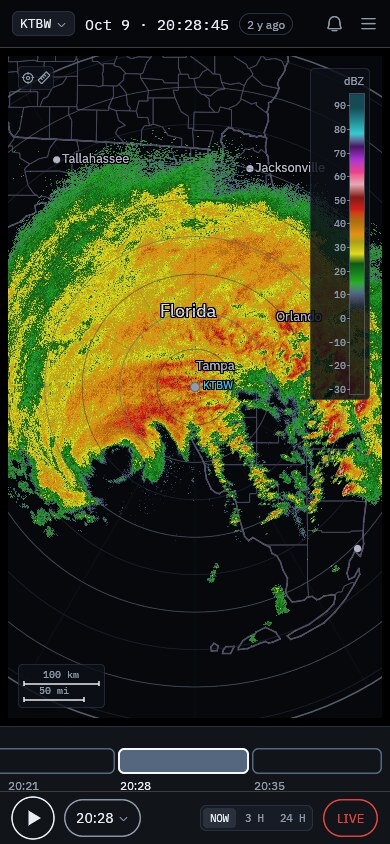
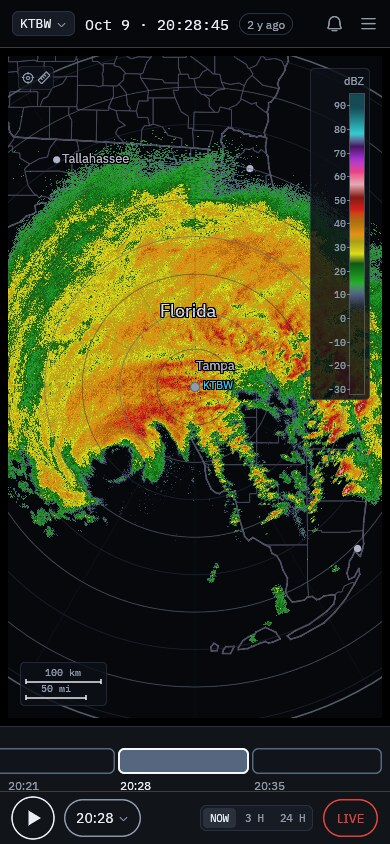
Show the sweep replay, 3D volume rendering and storm activity in the README

Changed region(s): [[0.0308, 0.7701, 0.2769, 0.8318], [0.6462, 0.1848, 0.8, 0.2156], [0.7077, 0.3697, 0.8308, 0.4005]]

diff --git a/README.md b/README.md
@@ -9,7 +9,7 @@ no account, no server: everything runs on your own device.
 
 ### [▶ Open NEXRAD Workbench](https://danielway.github.io/nexrad-workbench/)
 
-![Hurricane Milton looping over Tampa Bay on 9 October 2024](docs/media/milton-loop.gif)
+![Hurricane Milton looping over Tampa Bay on 9 October 2024](docs/media/milton-loop.webp)
 
 <sub>Hurricane Milton approaching Tampa Bay, 9 October 2024, from the KTBW radar. One volume every seven minutes over 90 minutes.</sub>
 
@@ -32,25 +32,37 @@ no account, no server: everything runs on your own device.
   counties and cities. Probe any point for its value, or measure a distance.
 - **Share exactly what you see.** The page URL carries the site, time, product,
   tilt and view, so a copied link opens the same picture for someone else.
-- **Take it with you.** On a phone it becomes a compact instrument: a row of
-  volumes you can touch, a three-button transport, and the panels in a sheet.
-  You can add it to your home screen like an app.
+- **Use it on your phone.** It works on phones too, and you can add it to
+  your home screen.
+
+## A closer look
+
+![Rays playback of one Milton volume, the sweep line painting each tilt over the last](docs/media/sweep.webp)
+
+<sub>**Ray by ray.** In Rays mode the playhead follows the antenna. The sweep line paints each new tilt over the previous one, which fades, and the tilt ladder on the right tracks which elevation the radar is on.</sub>
+
+![Milton in 3D with every tilt drawn as a volume](docs/media/volume-3d.jpg)
+
+<sub>**Every tilt at once.** On the 3D globe, volume rendering draws all 23 tilts of a scan together, here with a 25 dBZ cutoff so the tall cells in Milton's outer bands stand out.</sub>
+
+![Four months of storm activity at KTLX in 2024](docs/media/storm-activity.png)
+
+<sub>**Where the weather was.** The overview strip zoomed out to four months at KTLX in 2024: a quiet March, then the busy weeks of late April through June.</sub>
 
 <table>
   <tr>
-    <td width="68%"><img src="docs/media/site-picker.jpg" alt="Choosing a radar site from the site picker"></td>
-    <td><img src="docs/media/phone.jpg" alt="NEXRAD Workbench on a phone"></td>
+    <td width="50%"><img src="docs/media/phone.jpg" alt="NEXRAD Workbench on a phone"></td>
+    <td width="50%"><img src="docs/media/phone-calendar.jpg" alt="The phone's Go to a day calendar, with stormy days shaded"></td>
   </tr>
   <tr>
-    <td>Search for a radar by ID, city, state or zip, use your location, or pick one on the map.</td>
-    <td>The same instrument on a phone.</td>
+    <td>On a phone.</td>
+    <td>Going to a day: stormy days are shaded, so the days around Milton stand out.</td>
   </tr>
 </table>
 
-<p>
-  <img src="docs/media/timeline.png" alt="The transport and timeline: a 90-minute loop selected over a day of storm activity">
-  <br><sub>The timeline: the overview strip with storm activity on top, and a 90-minute loop of downloaded volumes below.</sub>
-</p>
+![Choosing a radar site from the site picker](docs/media/site-picker.jpg)
+
+<sub>Search for a radar by ID, city, state or zip, use your location, or pick one on the map.</sub>
 
 ## Getting around
 
